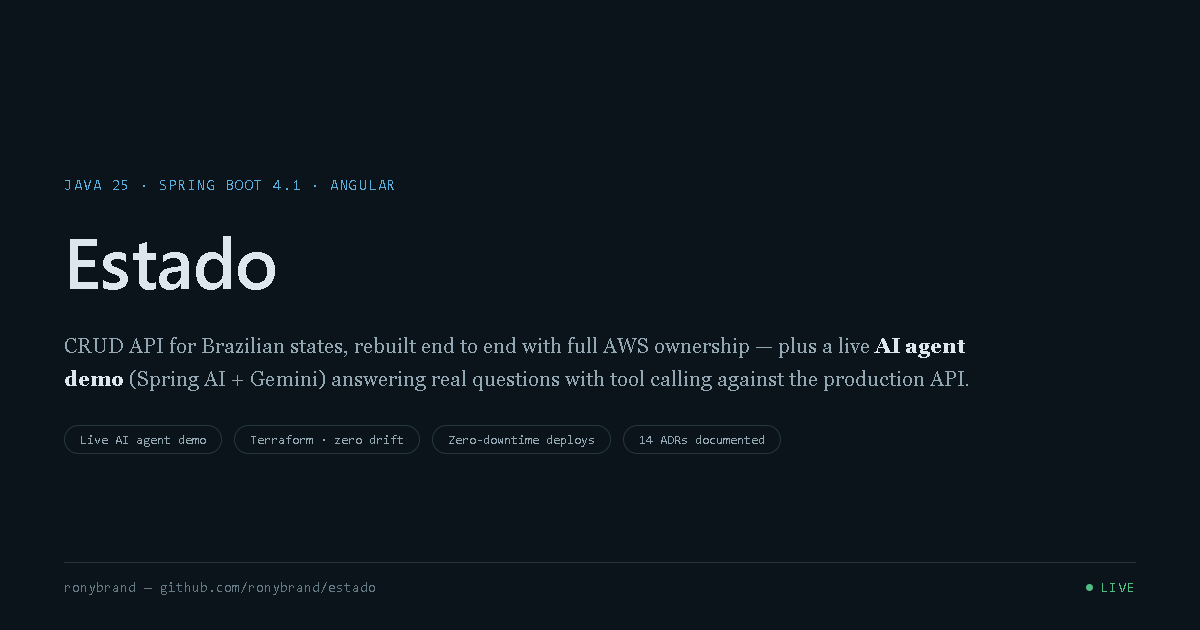
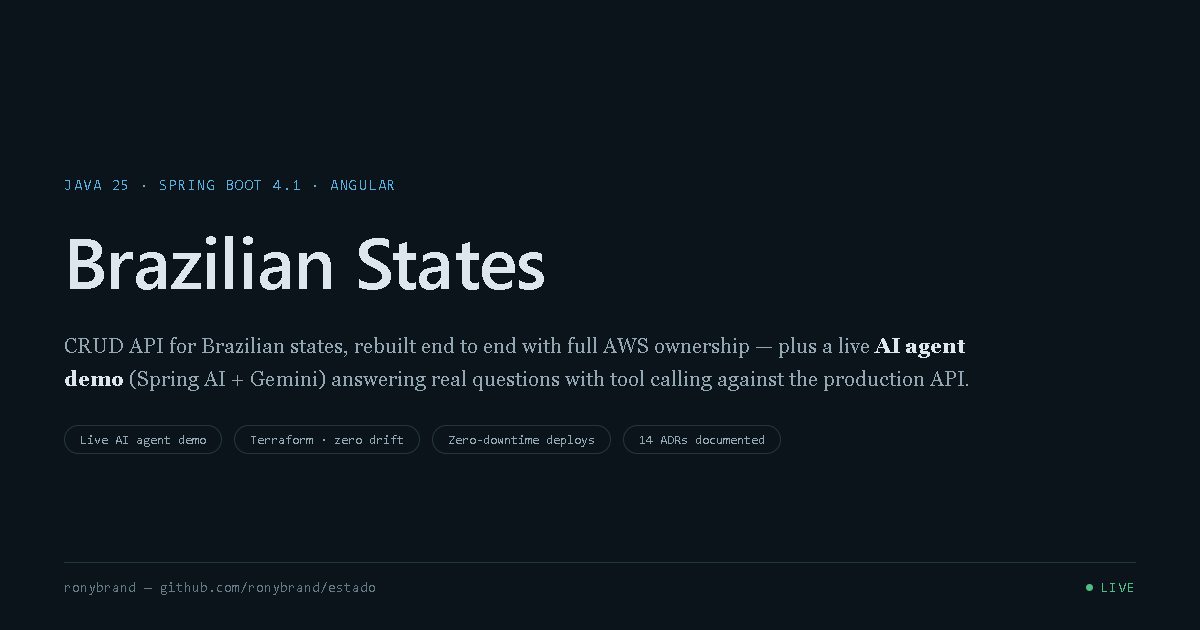
fix: usa Brazilian States em vez de Estado nos textos em ingles

Changed region(s): [[0.0617, 0.3619, 0.4625, 0.4825]]

diff --git a/src/index.html b/src/index.html
@@ -2,7 +2,7 @@
 <html lang="pt-BR">
   <head>
     <meta charset="utf-8" />
-    <title>Estado — Java/Spring Boot API with an AI agent</title>
+    <title>Brazilian States — Java/Spring Boot API with an AI agent</title>
     <meta
       name="description"
       content="CRUD API for Brazilian states, rebuilt with full AWS ownership — plus a live AI agent (Spring AI + Gemini) answering real questions via tool calling against the production API."
@@ -12,7 +12,7 @@
     <link rel="icon" type="image/x-icon" href="favicon.ico" />
 
     <meta property="og:type" content="website" />
-    <meta property="og:title" content="Estado — Java/Spring Boot API with an AI agent" />
+    <meta property="og:title" content="Brazilian States — Java/Spring Boot API with an AI agent" />
     <meta
       property="og:description"
       content="CRUD API for Brazilian states, rebuilt with full AWS ownership — plus a live AI agent (Spring AI + Gemini) answering real questions via tool calling against the production API."
@@ -20,7 +20,7 @@
     <meta property="og:image" content="https://d3bqbg07tehy1h.cloudfront.net/og-image.png" />
     <meta property="og:url" content="https://d3bqbg07tehy1h.cloudfront.net/" />
     <meta name="twitter:card" content="summary_large_image" />
-    <meta name="twitter:title" content="Estado — Java/Spring Boot API with an AI agent" />
+    <meta name="twitter:title" content="Brazilian States — Java/Spring Boot API with an AI agent" />
     <meta
       name="twitter:description"
       content="CRUD API for Brazilian states, rebuilt with full AWS ownership — plus a live AI agent (Spring AI + Gemini) answering real questions via tool calling against the production API."

diff --git a/src/app/app.component.spec.ts b/src/app/app.component.spec.ts
@@ -97,7 +97,9 @@ describe('AppComponent', () => {
     TestBed.createComponent(AppComponent);
 
     const titleService = TestBed.inject(Title);
-    expect(titleService.getTitle()).toBe('Estado — Java/Spring Boot API with an AI agent');
+    expect(titleService.getTitle()).toBe(
+      'Brazilian States — Java/Spring Boot API with an AI agent',
+    );
   });
 
   it('should render the Portuguese nav link by default', () => {

diff --git a/src/app/app.component.ts b/src/app/app.component.ts
@@ -21,7 +21,7 @@ const TITLES: Record<Lang, string> = {
 // executam JS para ler isso dinamicamente.
 const BROWSER_TAB_TITLES: Record<Lang, string> = {
   pt: 'Estado — API Java/Spring Boot com agente de IA',
-  en: 'Estado — Java/Spring Boot API with an AI agent',
+  en: 'Brazilian States — Java/Spring Boot API with an AI agent',
 };
 
 const ASK_IA_LINK_LABELS: Record<Lang, string> = {
